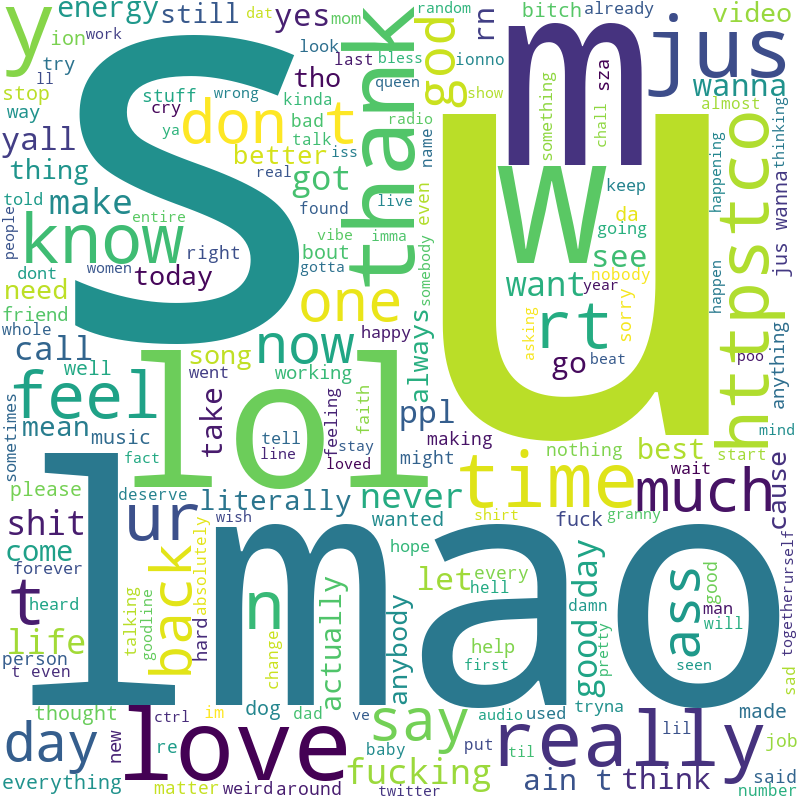
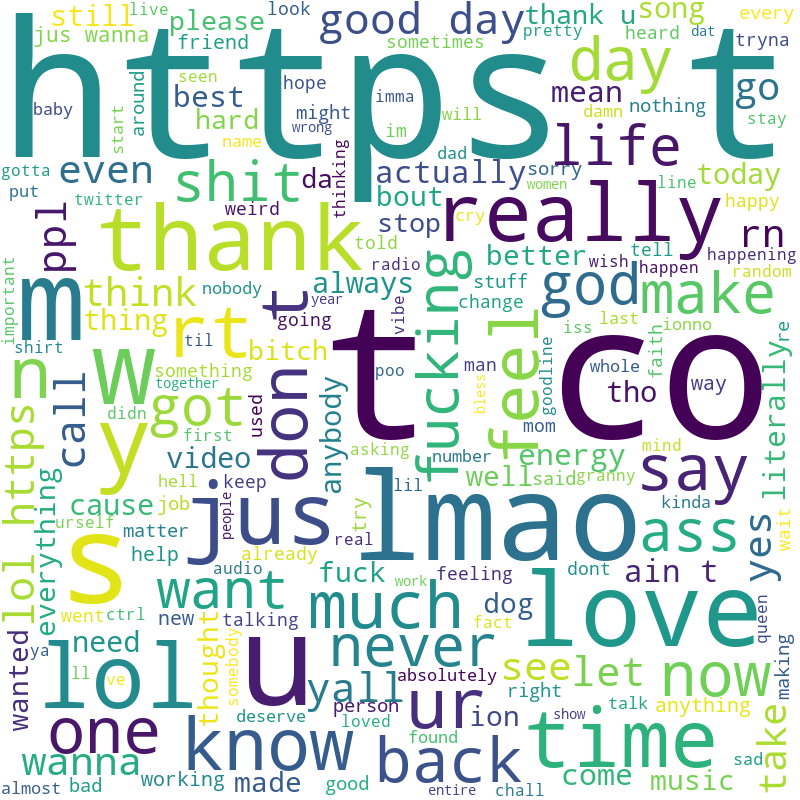
plotly feels

diff --git a/WebInterface/server/src/wordcheck/templates/compare.html b/WebInterface/server/src/wordcheck/templates/compare.html
@@ -1,9 +1,10 @@
 {% extends "home.html" %}
 {% load word_extras %}
-{% block title %}Tweets{% endblock %}
+{% block title %}Word Comparison{% endblock %}
 {% block head %}
 {% load static %}
     <link rel="stylesheet" type="text/css" href="{% static 'wordcheck/compare.css' %}">
+    <link rel="stylesheet" type="text/css" href="{% static 'wordcheck/wordcheck.css' %}">
     <script src="https://ajax.googleapis.com/ajax/libs/jquery/1.11.1/jquery.min.js"></script>
     <script src="https://code.highcharts.com/highcharts.js"></script>
     <script src="https://code.highcharts.com/modules/networkgraph.js"></script>
@@ -12,11 +13,14 @@
 {% block logo %}{% endblock %}
 {% block header_txt %}
 {% if wordform %}
+<div>
+    <h1>Word Comparison</h1><br>
 <form class="wordcheck_form" action="/wordcheck/compare" method="POST">
     {% csrf_token %}
     {{wordform}}<br><br>
     <input type="submit" type="submit"></button>
 </form>
+</div>
 {% endif %}
 {% endblock %}
 
@@ -45,7 +49,7 @@ plotOptions: {
     networkgraph: {
       keys: ['from', 'to'],
       layoutAlgorithm: {
-        enableSimulation: true,
+        enableSimulation: false,
         integration: 'verlet',
         linkLength: 100
       }
@@ -58,6 +62,9 @@ series: [{
     },
 dataLabels: {
   enabled: true,
+      textPath: {
+        enabled: true
+      },
   linkFormat: '',
   allowOverlap: true
 },

diff --git a/WebInterface/server/src/wordcheck/templates/wordcheck.html b/WebInterface/server/src/wordcheck/templates/wordcheck.html
@@ -1,6 +1,6 @@
 {% extends "home.html" %}
 {% load word_extras %}
-{% block title %}Tweets{% endblock %}
+{% block title %}Tweet Checker{% endblock %}
 {% block head %}
 {% load static %}
     <link rel="stylesheet" type="text/css" href="{% static 'user/user.css' %}">
@@ -10,11 +10,14 @@
 {% block logo %}{% endblock %}
 {% block header_txt %}
 {% if wordform %}
+<div>
+    <h1 style="color:white;">Tweet Checker</h1><br>
 <form class="wordcheck_form" action="/wordcheck/" method="POST">
     {% csrf_token %}
     {{wordform}}<br><br>
     <input type="submit" type="submit"></button>
 </form>
+</div>
 {% endif %}
 <div>
 {% if predicted|length > 0 %}

diff --git a/WebInterface/server/src/tweet/templates/tweets.html b/WebInterface/server/src/tweet/templates/tweets.html
@@ -11,7 +11,7 @@
 {% endblock %}
 {% block logo %}{% endblock %}
 {% block header_txt %}
-<a href="https://imgflip.com/i/4zs9j0"><img src="https://i.imgflip.com/4zs9j0.jpg" title="made at imgflip.com"/></a><div><a href="https://imgflip.com/memegenerator"></a></div>
+<h1>Tweets</h1>
 {% endblock %}
 {% block body %}
 {% if tweets|length > 0 %}

diff --git a/WebInterface/server/src/user/templates/user.html b/WebInterface/server/src/user/templates/user.html
@@ -1,7 +1,7 @@
 {% extends "home.html" %}
 {% load user_extras %}
 {% if user|length > 0 %}
-{% block title %}User{% endblock %}
+{% block title %}{{user.username}}{% endblock %}
 {% block head %}
 {% load static %}
     <link rel="stylesheet" href="{% static 'user/user.css' %}">

diff --git a/WebInterface/server/src/user/templates/users.html b/WebInterface/server/src/user/templates/users.html
@@ -40,7 +40,7 @@
     {% if not users %}
         <img src="{% static 'user/spongebob.jpg' %}">
     {% elif users %}
-    <h1> Users </h1>
+    <h1 style="color:white;"> Users </h1>
     {% endif %}
     </div>
     {% endblock %}

diff --git a/WebInterface/server/src/user/utils.py b/WebInterface/server/src/user/utils.py
@@ -6,15 +6,17 @@ import chart_studio.tools as tls
 from django.conf import settings
 import os
 import string
+import logging
 from wordcloud import WordCloud, STOPWORDS
 from nltk.tokenize import TweetTokenizer
+import time
 
 # Global Settings
 cdm = {"Positive": "Blue", "Negative": "Red"}
 co ={"sentiment": ["Positive", "Negative"]}
 tweetTokenizer = TweetTokenizer(strip_handles=True, preserve_case=False)
 stopwords = set(STOPWORDS)
-
+logger = logging.getLogger(__name__)
 
 def plotly_url(data,user, freq='D'):
     """
@@ -28,6 +30,8 @@ def plotly_url(data,user, freq='D'):
     try:
         user_plotly = os.environ.get('PLOTLY_USER')
         api = os.environ.get('PLOTLY_API')
+        assert len(api) > 0
+        assert len(user_plotly) > 0
 
         # Make dataframe and group by month
         df = pd.DataFrame(data)
@@ -48,6 +52,7 @@ def plotly_url(data,user, freq='D'):
 
         # Plotly
         tls.set_credentials_file(username=user_plotly,api_key=api)
+
         user_bar = px.bar(df_u, x="created_at", y="total", color="sentiment",barmode="group", category_orders=co,labels={'created_at':'Date','total':'Total'}, title=f'{user}: Tweets',hover_data=df_u.columns)
 
         # Plot rolling averages
@@ -55,10 +60,13 @@ def plotly_url(data,user, freq='D'):
         user_bar.add_trace(go.Scatter(x=df_u[df_u['sentiment']=='Positive']['created_at'],y=df_u[df_u['sentiment']=='Positive']['proll_7'], name='proll_7'))
 
         url = py.plot(user_bar, filename=f'{user}_tweets_{freq}',auto_open=False)
+        time.sleep(5)
+        
 
         return tls.get_embed(url)
+
     except Exception as e:
-        print(f'plotly_url error: {e}')
+        logger.error(f'plotly_url error: {e}')
 
 def gen_word_cloud(data,user):
     """
@@ -69,10 +77,11 @@ def gen_word_cloud(data,user):
     tweets = df['text'].str.cat(sep=' ')
 
     # Remove punctuation
-    tweets = tweets.translate(str.maketrans('', '', string.punctuation))
+    # tweets = tweets.translate(str.maketrans('', '', string.punctuation))
 
     tweets = tweetTokenizer.tokenize(tweets)
-    tweets = list(filter(lambda x: all([c.isalpha() for c in x]), tweets))
+    # tweets = list(filter(lambda x: any([c.isalpha() for c in x]), tweets))
+    tweets = list(filter(lambda x: not x.startswith('http') and not x.startswith('rt'), tweets))
     tweets = ' '.join(tweets)
     wordcloud = WordCloud(width = 800, height = 800, 
                     background_color ='white', 

diff --git a/WebInterface/server/src/user/views.py b/WebInterface/server/src/user/views.py
@@ -10,7 +10,8 @@ import logging
 import os
 import json
 
-NUM_TWEETS = 500
+NUM_TWEETS = 100
+logger = logging.getLogger(__name__)
 
 try:
     if 'BEARER_TOKEN' in os.environ:
@@ -18,7 +19,7 @@ try:
     else:
         logging.error('BEARER_TOKEN NOT FOUND')
 except EnvironmentError as e:
-    print(e)
+    logger.error(e)
 
 
 
@@ -57,9 +58,11 @@ def user(request, user):
     if len(UserTweet.objects.filter(user=new_user)) < NUM_TWEETS:
         try:
             analyzer = SentimentAnalyzer()
+            logger.debug("Getting tweets from Twitter")
             tweets = tweety.get_tweets(new_user.id,NUM_TWEETS) # list of dicts containing tweets    
             if tweets:
                 tweets_txt = [x['text'] for x in tweets] # get list of tweets
+                logger.debug('Predicting sentiment')
                 predict = analyzer.predict(tweets_txt) # returns list of tuples i.e. (text,sentiment,confidence)
                 [x.update({'sentiment':y[1],'confidence':y[2],'user':new_user}) for (x,y) in list(zip(tweets,predict))]
                 for tweet in tweets:
@@ -67,13 +70,15 @@ def user(request, user):
                     twt_obj.save()
                 
         except Exception as e:
+            logger.error(e)
             return HttpResponse(f'Tweet Exception: {e}')
 
     tweets = UserTweet.objects.filter(user=new_user)
 
     # Gets the url of the plotly chart, default freq is H: hours
+    logger.debug("Getting plotly graph")
     bar_plotly = plotly_url(list(tweets.values('created_at', 'user_id','sentiment')),user, freq='D')
-
+    
     
     wc = gen_word_cloud(list(tweets.values('text')),user)
 

diff --git a/WebInterface/server/src/home/views.py b/WebInterface/server/src/home/views.py
@@ -1,4 +1,4 @@
-from django.http import HttpResponse
+from django.http import HttpResponse, Http404
 from django.shortcuts import render
 from home.forms import UserForm
 
@@ -9,8 +9,11 @@ def home(request):
         :return :
     """
     form = None
-    if request.method == 'GET':
-        form = UserForm()
-    elif request.method =='POST':
-        form = request.form
-    return render(request, 'home.html', context = {'form':form})
+    try:
+        if request.method == 'GET':
+            form = UserForm()
+        elif request.method =='POST':
+            form = request.form
+        return render(request, 'home.html', context = {'form':form})
+    except Exception as e:
+        return Http404(f'Error fetching home: {e}')

diff --git a/WebInterface/server/src/user/twitget.py b/WebInterface/server/src/user/twitget.py
@@ -90,8 +90,6 @@ class TwitGet():
                 except Exception as e:
                     self.tweet_params.update({'pagination_token':None})
 
-            if pagination_count != int(tweetCount/100):
-                self.logger.info('Reached end of content from user before specified request amount.')
             return tweets
         else:
             return []
